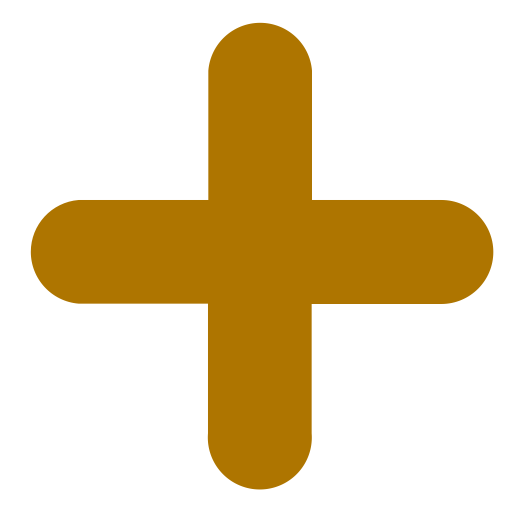
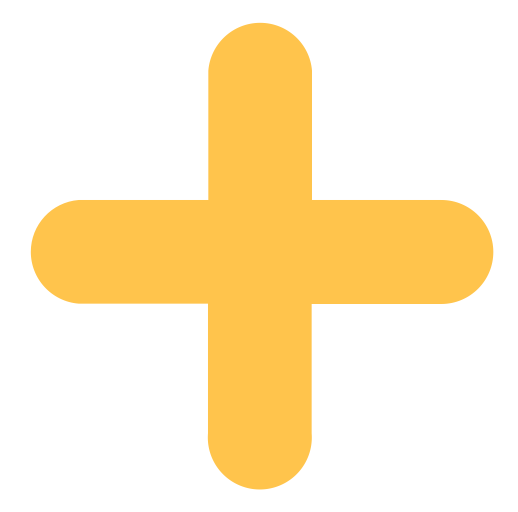
finished styling mentor registration

diff --git a/src/components/pages/MentorRegistration.js b/src/components/pages/MentorRegistration.js
@@ -1,9 +1,16 @@
 import React, { useState } from 'react'
 import { useForm } from 'react-hook-form'
 
+import plus from '../assets/plus.png'
+
 const MentorRegistration = () => {
     const {register, handleSubmit, watch, errors} = useForm();
     const [categoryNumber, setCategoryNumber] = useState(1)
+
+    const addCategory = e => {
+        e.preventDefault()
+        setCategoryNumber(categoryNumber + 1)
+    }
 
     const submitMentorRegistration = (values) => {
 
@@ -24,22 +31,25 @@ const MentorRegistration = () => {
                         ref={register({ required: true })}
                     />
                 </label>}
-                <label>
-                    <img src="../assets/plus.png" alt="plus sign" />
-                    add another category
-                </label>
-                <label>Secondary Mentor Category
+                
+                {categoryNumber > 1 && <label>Secondary Mentor Category
                     <input
                         name="category_2"
                         ref={register}
                     />
-                </label>
-                <label>Third Mentor Category
+                </label>}
+                {categoryNumber > 2 && <label>Third Mentor Category
                     <input
                         name="category_3"
                         ref={register}
                     />
-                </label>
+                </label>}
+                {categoryNumber < 3 && <label>
+                    <div id="addCategory" onClick={addCategory}>
+                        <img className="plus" src={plus} alt="plus sign" />
+                        <p>add another category</p>
+                    </div>
+                </label>}
                 <label>Bio
                     <textarea className="mentorBio"
                         type="text"

diff --git a/src/less/mentorRegistration.less b/src/less/mentorRegistration.less
@@ -21,10 +21,10 @@
         display: flex;
         flex-direction: column;
         justify-content: space-between;
-        width: 50%;
+        width: 70%;
         font-size: 1.2rem;
         margin-top: 6%;
-
+    
         input{
             width: 100%;
             height: 2.5vh;
@@ -35,9 +35,21 @@
 
 .mentorRegisterSubmit {
     margin: 4% auto;
-    width: 25%;
+    width: 50%;
+    background-color: @yellow;
+    height: 5vh;
 }
 
 .mentorBio {
     height: 8vh;
+}
+
+.plus {
+    width: 8%;
+    margin-right: 4%;
+}
+
+#addCategory {
+    display: flex;
+    align-items: flex-end;
 }

diff --git a/src/css/index.css b/src/css/index.css
@@ -316,7 +316,7 @@ header button:hover {
   display: flex;
   flex-direction: column;
   justify-content: space-between;
-  width: 50%;
+  width: 70%;
   font-size: 1.2rem;
   margin-top: 6%;
 }
@@ -327,8 +327,18 @@ header button:hover {
 }
 .mentorRegisterSubmit {
   margin: 4% auto;
-  width: 25%;
+  width: 50%;
+  background-color: #FFC857;
+  height: 5vh;
 }
 .mentorBio {
   height: 8vh;
+}
+.plus {
+  width: 8%;
+  margin-right: 4%;
+}
+#addCategory {
+  display: flex;
+  align-items: flex-end;
 }
